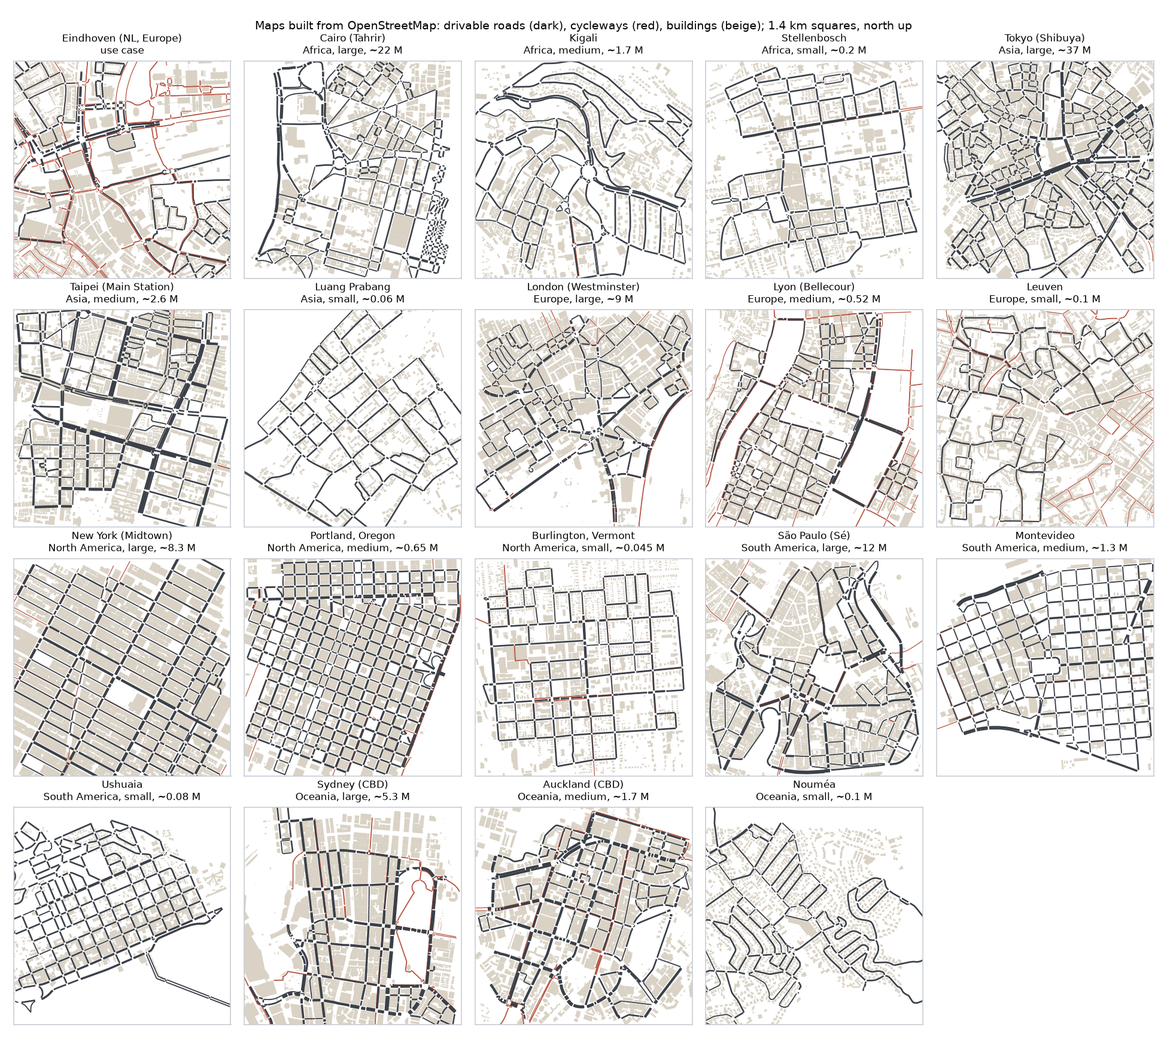
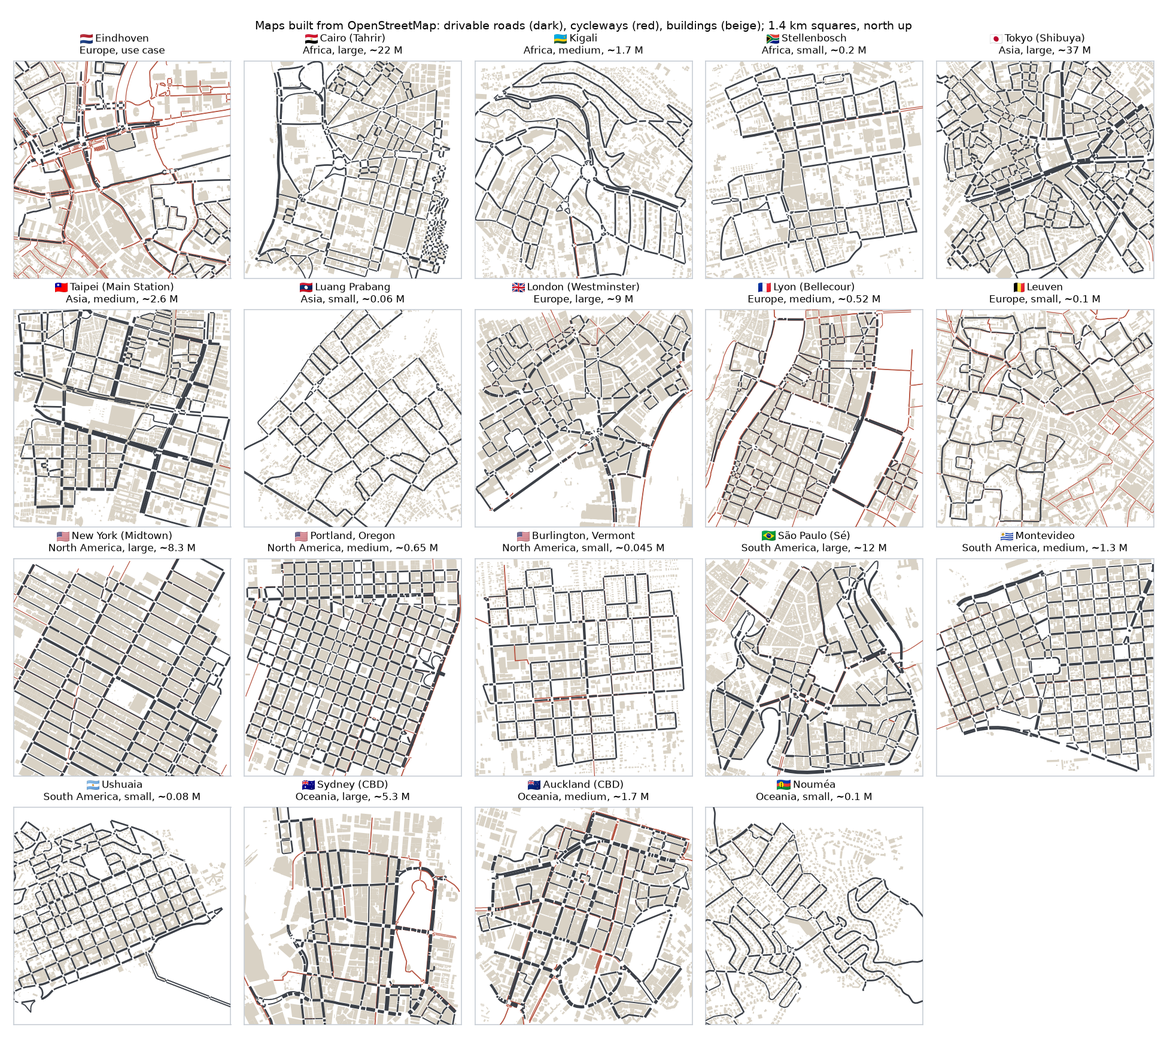
Flags next to city names: the cities figure, map maker tests, scenery, twins and video titles
tools/plot_maps.py draws each country's flag (Noto Color Emoji) left of its map's title.
The map maker page's result title shows the flag too.

diff --git a/coupledcarla/data/mapmaker.html b/coupledcarla/data/mapmaker.html
@@ -376,7 +376,7 @@ function showResult(sum, name) {
   if (!sum) return;
   S.shown = name;
   show("result");
-  $("resTitle").textContent = sum.label + (sum.country && sum.country !== "unknown" ? ", " + sum.country : "");
+  $("resTitle").textContent = (sum.country_code ? flag(sum.country_code) + " " : "") + sum.label + (sum.country && sum.country !== "unknown" ? ", " + sum.country : "");
   $("resImg").src = `/maps/${encodeURIComponent(name)}/preview.png?t=${Date.now()}`;
   const h = sum.building_height_m;
   const rows = [

diff --git a/tools/plot_maps.py b/tools/plot_maps.py
@@ -1,6 +1,10 @@
-"""Figure of the built maps: roads, cycleways and OSM buildings per city, in a grid.
+"""Figure of the built maps: roads, cycleways and OSM buildings per city, in a grid, each title with its
+country's flag.
 
     python tools/plot_maps.py docs/img/cities.png
+
+Flags are drawn from the Noto Color Emoji font (OFL; its flag images are public domain); without that font the
+titles stay as they are.
 """
 import sys
 from pathlib import Path
@@ -8,31 +12,84 @@ from pathlib import Path
 import matplotlib
 matplotlib.use("Agg")
 import matplotlib.pyplot as plt  # noqa: E402
+import numpy as np  # noqa: E402
 import yaml  # noqa: E402
+from matplotlib.text import Text  # noqa: E402
 
 ROOT = Path(__file__).resolve().parent.parent
 sys.path.insert(0, str(ROOT))
+from coupledcarla.cities import ISO2, flag  # noqa: E402
 from coupledcarla.preview import draw  # noqa: E402  (shared with the map maker's preview pictures)
+
+EMOJI_FONTS = ["/usr/share/fonts/truetype/noto/NotoColorEmoji.ttf",
+               "/usr/share/fonts/noto/NotoColorEmoji.ttf",
+               "/usr/share/fonts/google-noto-emoji/NotoColorEmoji.ttf"]
+
+
+def flag_image(code, height_px):
+    """RGBA array of a country's flag, height_px high; None without a colour emoji font or a valid code."""
+    text = flag(code=code)
+    if not text:
+        return None
+    try:
+        from PIL import Image, ImageDraw, ImageFont
+    except ImportError:
+        return None
+    for path in EMOJI_FONTS:
+        if Path(path).exists():
+            break
+    else:
+        return None
+    font = ImageFont.truetype(path, 109)          # the bitmap size of Noto Color Emoji
+    im = Image.new("RGBA", (160, 160), (0, 0, 0, 0))
+    ImageDraw.Draw(im).text((0, 0), text, font=font, embedded_color=True)
+    im = im.crop(im.getbbox())
+    width = max(1, round(im.width * height_px / im.height))
+    return np.asarray(im.resize((width, int(height_px)), Image.LANCZOS))
+
+
+def add_title_flags(fig, axes_codes, gap_px=4):
+    """Put each axes' country flag left of the first line of its title (figure pixels, after layout)."""
+    renderer = fig.canvas.get_renderer()
+    for ax, code in axes_codes:
+        title = ax.title
+        lines = title.get_text().split("\n")
+        if not code or not lines[0]:
+            continue
+        box = title.get_window_extent(renderer)
+        probe = Text(text=lines[0], fontproperties=title.get_fontproperties(), figure=fig)
+        first = probe.get_window_extent(renderer)
+        line_h = box.height / len(lines)
+        img = flag_image(code, round(line_h * 0.8))
+        if img is None:
+            return
+        cx = (box.x0 + box.x1) / 2
+        x = cx - first.width / 2 - gap_px - img.shape[1]
+        y = box.y1 - line_h + (line_h - img.shape[0]) / 2
+        fig.figimage(img, xo=round(x), yo=round(y), origin="upper", zorder=5)
 
 
 def main(out):
     cat = yaml.safe_load((ROOT / "experiments" / "cities.yaml").read_text())
-    entries = [("eindhoven_centre", "Eindhoven (NL, Europe)\nuse case")]
+    entries = [("eindhoven_centre", "Eindhoven\nEurope, use case", "NL")]
     for c in cat["cities"]:
-        entries.append((c["slug"], f"{c['name']}\n{c['continent']}, {c['size']}, ~{c['population'] / 1e6:.2g} M"))
-    entries = [(s, t) for s, t in entries if (ROOT / "maps" / s / "geo.net.xml").exists()]
+        entries.append((c["slug"], f"{c['name']}\n{c['continent']}, {c['size']}, ~{c['population'] / 1e6:.2g} M",
+                        ISO2.get(c.get("country", ""))))
+    entries = [e for e in entries if (ROOT / "maps" / e[0] / "geo.net.xml").exists()]
     cols = 5
     rows = (len(entries) + cols - 1) // cols
     fig, axes = plt.subplots(rows, cols, figsize=(cols * 2.6, rows * 2.9), dpi=150)
     for ax in axes.flat[len(entries):]:
         ax.axis("off")
-    for ax, (slug, title) in zip(axes.flat, entries):
+    for ax, (slug, title, _) in zip(axes.flat, entries):
         draw(ax, ROOT / "maps" / slug, title)
     fig.suptitle("Maps built from OpenStreetMap: drivable roads (dark), cycleways (red), buildings (beige); "
                  "1.4 km squares, north up", fontsize=9)
     fig.tight_layout()
+    fig.canvas.draw()
+    add_title_flags(fig, [(ax, code) for ax, (_, _, code) in zip(axes.flat, entries)])
     Path(out).parent.mkdir(parents=True, exist_ok=True)
-    fig.savefig(out)
+    fig.savefig(out, dpi=fig.dpi)
     print("wrote", out)
 
 

diff --git a/README.md b/README.md
@@ -151,16 +151,16 @@ answered 502 and 504 several times and the map maker moved on to the next).
 
 | Typed | Found | What it tests | Size | Build | Roads | Buildings | Trees | Bus lines (timetable) | Hills | Drive: real-time factor, collisions |
 |---|---|---|---|---|---|---|---|---|---|---|
-| `명동, 서울` | Myeong-dong, Seoul, South Korea | Korean script; big city (9.5 M), right-hand | medium | 4.5 min | 40.5 km | 2,527 | 58,728 (Namsan's forest) | 45 (0) | 131 m | 0.980, 0 |
-| `Connaught Place, New Delhi` | New Delhi, India | a left-hand country not yet covered; big city | medium | 3.1 min | 31.4 km | 1,227 | 236 | 40 (0) | 46 m | 0.993, 0 |
-| `Hallstatt` | Hallstatt, Austria | a village of 388 people between a lake and a mountain | small | 2.8 min | 0.8 km | 235 | 39 | none | 516 m | 0.990, 0 (stuck 5 times, put back) |
-| `Plaza Mayor, Salamanca` | Salamanca, Spain | a town | medium | 4.5 min | 26.1 km | 2,328 | 4,204 | 28 (15) | 56 m | 0.981, 0 |
-| (a click on the page) | Kinsale, Ireland | a left-hand small town, built through the web page | small | 3.4 min | 20.2 km | 1,274 | 1,781 | 3 (3) | 64 m | 0.995, 0 |
+| `명동, 서울` | 🇰🇷&nbsp;Myeong-dong, Seoul, South Korea | Korean script; big city (9.5 M), right-hand | medium | 4.5 min | 40.5 km | 2,527 | 58,728 (Namsan's forest) | 45 (0) | 131 m | 0.980, 0 |
+| `Connaught Place, New Delhi` | 🇮🇳&nbsp;New Delhi, India | a left-hand country not yet covered; big city | medium | 3.1 min | 31.4 km | 1,227 | 236 | 40 (0) | 46 m | 0.993, 0 |
+| `Hallstatt` | 🇦🇹&nbsp;Hallstatt, Austria | a village of 388 people between a lake and a mountain | small | 2.8 min | 0.8 km | 235 | 39 | none | 516 m | 0.990, 0 (stuck 5 times, put back) |
+| `Plaza Mayor, Salamanca` | 🇪🇸&nbsp;Salamanca, Spain | a town | medium | 4.5 min | 26.1 km | 2,328 | 4,204 | 28 (15) | 56 m | 0.981, 0 |
+| (a click on the page) | 🇮🇪&nbsp;Kinsale, Ireland | a left-hand small town, built through the web page | small | 3.4 min | 20.2 km | 1,274 | 1,781 | 3 (3) | 64 m | 0.995, 0 |
 
-| Myeong-dong, Seoul | Connaught Place, New Delhi |
+| 🇰🇷&nbsp;Myeong-dong, Seoul | 🇮🇳&nbsp;Connaught Place, New Delhi |
 |---|---|
 | ![Preview of Myeong-dong, Seoul](docs/img/mapmaker_seoul.png) | ![Preview of Connaught Place, New Delhi](docs/img/mapmaker_delhi.png) |
-| **Plaza Mayor, Salamanca** | **Hallstatt** |
+| 🇪🇸&nbsp;**Plaza Mayor, Salamanca** | 🇦🇹&nbsp;**Hallstatt** |
 | ![Preview of Plaza Mayor, Salamanca](docs/img/mapmaker_salamanca.png) | ![Preview of Hallstatt](docs/img/mapmaker_hallstatt.png) |
 
 <img src="docs/img/mapmaker_drives.jpg" width="100%" alt="Chase-camera frames of the test drives: Seoul, New Delhi (left-hand), Hallstatt, Salamanca">
@@ -222,15 +222,15 @@ participant hears (`--record-audio`), outside cameras what can be heard where th
 
 <table>
 <tr>
-<td width="50%" valign="top"><a href="https://github.com/bazilinskyy/coupled-carla/releases/download/demo-videos/twin_eindhoven.mp4"><img src="docs/img/videos/twin_eindhoven.jpg" alt="The Eindhoven digital twin"></a><br><b>The Eindhoven digital twin</b><br><sub>Eindhoven centre, CARLA 1.0 twin · driver (autopilot), chase camera · 20 s, 4.8 MB<br>3DBAG buildings with real roofs and facade styles, aerial-photo ground, CARLA road markings, trees and street furniture from open data</sub></td>
-<td width="50%" valign="top"><a href="https://github.com/bazilinskyy/coupled-carla/releases/download/demo-videos/twin_drones.mp4"><img src="docs/img/videos/twin_drones.jpg" alt="Drones over the Eindhoven twin"></a><br><b>Drones over the Eindhoven twin</b><br><sub>Eindhoven centre, CARLA 1.0 twin · drone pilot (FPV) · 20 s, 3.1 MB<br>the pilot climbs over the twin's real roof shapes; delivery and swarm drones fly in the cruise band</sub></td>
+<td width="50%" valign="top"><a href="https://github.com/bazilinskyy/coupled-carla/releases/download/demo-videos/twin_eindhoven.mp4"><img src="docs/img/videos/twin_eindhoven.jpg" alt="The Eindhoven digital twin"></a><br>🇳🇱&nbsp;<b>The Eindhoven digital twin</b><br><sub>Eindhoven centre, CARLA 1.0 twin · driver (autopilot), chase camera · 20 s, 4.8 MB<br>3DBAG buildings with real roofs and facade styles, aerial-photo ground, CARLA road markings, trees and street furniture from open data</sub></td>
+<td width="50%" valign="top"><a href="https://github.com/bazilinskyy/coupled-carla/releases/download/demo-videos/twin_drones.mp4"><img src="docs/img/videos/twin_drones.jpg" alt="Drones over the Eindhoven twin"></a><br>🇳🇱&nbsp;<b>Drones over the Eindhoven twin</b><br><sub>Eindhoven centre, CARLA 1.0 twin · drone pilot (FPV) · 20 s, 3.1 MB<br>the pilot climbs over the twin's real roof shapes; delivery and swarm drones fly in the cruise band</sub></td>
 </tr>
 <tr>
-<td width="50%" valign="top"><a href="https://github.com/bazilinskyy/coupled-carla/releases/download/demo-videos/twin_salamanca.mp4"><img src="docs/img/videos/twin_salamanca.jpg" alt="Plaza Mayor, Salamanca"></a><br><b>Plaza Mayor, Salamanca</b><br><sub>Salamanca, Spain, CARLA 1.0 twin · driver (autopilot), chase camera · 20 s, 4.0 MB<br>a twin of any place from Spain's open data: Catastro buildings with their floors, PNOA aerial photo, MDT05 terrain</sub></td>
-<td width="50%" valign="top"><a href="https://github.com/bazilinskyy/coupled-carla/releases/download/demo-videos/twin_shibuya.mp4"><img src="docs/img/videos/twin_shibuya.jpg" alt="Shibuya crossing twin"></a><br><b>Shibuya crossing twin</b><br><sub>Tokyo, Japan, CARLA 1.0 twin (left-hand) · driver (autopilot), chase camera · 20 s, 3.2 MB<br>across the scramble crossing in a twin from Japan's open data: PLATEAU buildings with their photo textures, GSI photo and terrain</sub></td>
+<td width="50%" valign="top"><a href="https://github.com/bazilinskyy/coupled-carla/releases/download/demo-videos/twin_salamanca.mp4"><img src="docs/img/videos/twin_salamanca.jpg" alt="Plaza Mayor, Salamanca"></a><br>🇪🇸&nbsp;<b>Plaza Mayor, Salamanca</b><br><sub>Salamanca, Spain, CARLA 1.0 twin · driver (autopilot), chase camera · 20 s, 4.0 MB<br>a twin of any place from Spain's open data: Catastro buildings with their floors, PNOA aerial photo, MDT05 terrain</sub></td>
+<td width="50%" valign="top"><a href="https://github.com/bazilinskyy/coupled-carla/releases/download/demo-videos/twin_shibuya.mp4"><img src="docs/img/videos/twin_shibuya.jpg" alt="Shibuya crossing twin"></a><br>🇯🇵&nbsp;<b>Shibuya crossing twin</b><br><sub>Tokyo, Japan, CARLA 1.0 twin (left-hand) · driver (autopilot), chase camera · 20 s, 3.2 MB<br>across the scramble crossing in a twin from Japan's open data: PLATEAU buildings with their photo textures, GSI photo and terrain</sub></td>
 </tr>
 <tr>
-<td width="50%" valign="top"><a href="https://github.com/bazilinskyy/coupled-carla/releases/download/demo-videos/eindhoven_rush_hour.mp4"><img src="docs/img/videos/eindhoven_rush_hour.jpg" alt="Rush hour in Eindhoven"></a><br><b>Rush hour in Eindhoven</b><br><sub>Eindhoven centre, Netherlands · driver (autopilot), chase camera · 20 s, 30.3 MB<br>dense mixed traffic around the station, buses of the real lines, cyclists sharing the road</sub></td>
+<td width="50%" valign="top"><a href="https://github.com/bazilinskyy/coupled-carla/releases/download/demo-videos/eindhoven_rush_hour.mp4"><img src="docs/img/videos/eindhoven_rush_hour.jpg" alt="Rush hour in Eindhoven"></a><br>🇳🇱&nbsp;<b>Rush hour in Eindhoven</b><br><sub>Eindhoven centre, Netherlands · driver (autopilot), chase camera · 20 s, 30.3 MB<br>dense mixed traffic around the station, buses of the real lines, cyclists sharing the road</sub></td>
 <td width="50%" valign="top"><a href="https://github.com/bazilinskyy/coupled-carla/releases/download/demo-videos/eindhoven_pedestrian_ehmi.mp4"><img src="docs/img/videos/eindhoven_pedestrian_ehmi.jpg" alt="Crossing in front of an automated car"></a><br><b>Crossing in front of an automated car</b><br><sub>Eindhoven, east of the station · pedestrian · 9.5 s, 15.0 MB<br>the AV slows, shows I'M STOPPING, then GO AHEAD; its eyes follow the pedestrian</sub></td>
 </tr>
 <tr>
@@ -238,19 +238,19 @@ participant hears (`--record-audio`), outside cameras what can be heard where th
 <td width="50%" valign="top"><a href="https://github.com/bazilinskyy/coupled-carla/releases/download/demo-videos/robotaxi_passenger.mp4"><img src="docs/img/videos/robotaxi_passenger.jpg" alt="Riding in a robotaxi"></a><br><b>Riding in a robotaxi</b><br><sub>Eindhoven, east of the station · AV passenger (bot station) · 18 s, 47.3 MB<br>the centre screen's message and the eHMI as the AV stops and lets the pedestrian cross</sub></td>
 </tr>
 <tr>
-<td width="50%" valign="top"><a href="https://github.com/bazilinskyy/coupled-carla/releases/download/demo-videos/eindhoven_cyclist.mp4"><img src="docs/img/videos/eindhoven_cyclist.jpg" alt="Riding with Dutch cyclists"></a><br><b>Riding with Dutch cyclists</b><br><sub>Eindhoven, Vestdijk cycle path · chase camera on a SUMO cyclist · 20 s, 48.1 MB<br>cyclists on the cycle track and the street beside it, overtaking each other</sub></td>
-<td width="50%" valign="top"><a href="https://github.com/bazilinskyy/coupled-carla/releases/download/demo-videos/tokyo_shibuya.mp4"><img src="docs/img/videos/tokyo_shibuya.jpg" alt="Shibuya crossing, left-hand traffic"></a><br><b>Shibuya crossing, left-hand traffic</b><br><sub>Tokyo (Shibuya), Japan · orbiting camera above the crossing · 20 s, 19.3 MB<br>traffic keeps left, Toei buses, pedestrians crossing at the junction (80 walkers calibrated for Tokyo)</sub></td>
+<td width="50%" valign="top"><a href="https://github.com/bazilinskyy/coupled-carla/releases/download/demo-videos/eindhoven_cyclist.mp4"><img src="docs/img/videos/eindhoven_cyclist.jpg" alt="Riding with Dutch cyclists"></a><br>🇳🇱&nbsp;<b>Riding with Dutch cyclists</b><br><sub>Eindhoven, Vestdijk cycle path · chase camera on a SUMO cyclist · 20 s, 48.1 MB<br>cyclists on the cycle track and the street beside it, overtaking each other</sub></td>
+<td width="50%" valign="top"><a href="https://github.com/bazilinskyy/coupled-carla/releases/download/demo-videos/tokyo_shibuya.mp4"><img src="docs/img/videos/tokyo_shibuya.jpg" alt="Shibuya crossing, left-hand traffic"></a><br>🇯🇵&nbsp;<b>Shibuya crossing, left-hand traffic</b><br><sub>Tokyo (Shibuya), Japan · orbiting camera above the crossing · 20 s, 19.3 MB<br>traffic keeps left, Toei buses, pedestrians crossing at the junction (80 walkers calibrated for Tokyo)</sub></td>
 </tr>
 <tr>
-<td width="50%" valign="top"><a href="https://github.com/bazilinskyy/coupled-carla/releases/download/demo-videos/new_york_avenue.mp4"><img src="docs/img/videos/new_york_avenue.jpg" alt="Up Sixth Avenue"></a><br><b>Up Sixth Avenue</b><br><sub>New York (Midtown), USA · automated driver, chase camera · 20 s, 25.7 MB<br>Midtown's towers at their real heights (NYC Open Data), the avenue's five lanes</sub></td>
-<td width="50%" valign="top"><a href="https://github.com/bazilinskyy/coupled-carla/releases/download/demo-videos/kigali_hills.mp4"><img src="docs/img/videos/kigali_hills.jpg" alt="Kigali's hills"></a><br><b>Kigali's hills</b><br><sub>Kigali, Rwanda · crane camera over the road · 20 s, 21.6 MB<br>the roads climb and fall with the real terrain (AWS Terrain Tiles); Overture buildings on the slopes</sub></td>
+<td width="50%" valign="top"><a href="https://github.com/bazilinskyy/coupled-carla/releases/download/demo-videos/new_york_avenue.mp4"><img src="docs/img/videos/new_york_avenue.jpg" alt="Up Sixth Avenue"></a><br>🇺🇸&nbsp;<b>Up Sixth Avenue</b><br><sub>New York (Midtown), USA · automated driver, chase camera · 20 s, 25.7 MB<br>Midtown's towers at their real heights (NYC Open Data), the avenue's five lanes</sub></td>
+<td width="50%" valign="top"><a href="https://github.com/bazilinskyy/coupled-carla/releases/download/demo-videos/kigali_hills.mp4"><img src="docs/img/videos/kigali_hills.jpg" alt="Kigali's hills"></a><br>🇷🇼&nbsp;<b>Kigali's hills</b><br><sub>Kigali, Rwanda · crane camera over the road · 20 s, 21.6 MB<br>the roads climb and fall with the real terrain (AWS Terrain Tiles); Overture buildings on the slopes</sub></td>
 </tr>
 <tr>
-<td width="50%" valign="top"><a href="https://github.com/bazilinskyy/coupled-carla/releases/download/demo-videos/lyon_night_rain.mp4"><img src="docs/img/videos/lyon_night_rain.jpg" alt="Rainy night in Lyon"></a><br><b>Rainy night in Lyon</b><br><sub>Lyon (Bellecour), France · driver, chase camera · 20 s, 33.1 MB<br>night after sunset with rain, headlights and lit shop windows (0.9.16's street lamps give no light)</sub></td>
-<td width="50%" valign="top"><a href="https://github.com/bazilinskyy/coupled-carla/releases/download/demo-videos/eindhoven_drones.mp4"><img src="docs/img/videos/eindhoven_drones.jpg" alt="Drones over Eindhoven"></a><br><b>Drones over Eindhoven</b><br><sub>Eindhoven centre · drone pilot (FPV) · 20 s, 26.9 MB<br>the pilot's gimbal camera climbing out of a square over the roofs to the skyline (coupled-sim's flight model)</sub></td>
+<td width="50%" valign="top"><a href="https://github.com/bazilinskyy/coupled-carla/releases/download/demo-videos/lyon_night_rain.mp4"><img src="docs/img/videos/lyon_night_rain.jpg" alt="Rainy night in Lyon"></a><br>🇫🇷&nbsp;<b>Rainy night in Lyon</b><br><sub>Lyon (Bellecour), France · driver, chase camera · 20 s, 33.1 MB<br>night after sunset with rain, headlights and lit shop windows (0.9.16's street lamps give no light)</sub></td>
+<td width="50%" valign="top"><a href="https://github.com/bazilinskyy/coupled-carla/releases/download/demo-videos/eindhoven_drones.mp4"><img src="docs/img/videos/eindhoven_drones.jpg" alt="Drones over Eindhoven"></a><br>🇳🇱&nbsp;<b>Drones over Eindhoven</b><br><sub>Eindhoven centre · drone pilot (FPV) · 20 s, 26.9 MB<br>the pilot's gimbal camera climbing out of a square over the roofs to the skyline (coupled-sim's flight model)</sub></td>
 </tr>
 <tr>
-<td width="50%" valign="top"><a href="https://github.com/bazilinskyy/coupled-carla/releases/download/demo-videos/chernihiv_avenue.mp4"><img src="docs/img/videos/chernihiv_avenue.jpg" alt="Down prospekt Myru, Chernihiv"></a><br><b>Down prospekt Myru, Chernihiv</b><br><sub>Chernihiv, Ukraine (made with the map maker) · driver (autopilot), chase camera · 20 s, 22.0 MB<br>a map made by typing "Chernihiv" into the map maker; prospekt Myru towards the centre, a bus stopping, people boarding</sub></td>
+<td width="50%" valign="top"><a href="https://github.com/bazilinskyy/coupled-carla/releases/download/demo-videos/chernihiv_avenue.mp4"><img src="docs/img/videos/chernihiv_avenue.jpg" alt="Down prospekt Myru, Chernihiv"></a><br>🇺🇦&nbsp;<b>Down prospekt Myru, Chernihiv</b><br><sub>Chernihiv, Ukraine (made with the map maker) · driver (autopilot), chase camera · 20 s, 22.0 MB<br>a map made by typing "Chernihiv" into the map maker; prospekt Myru towards the centre, a bus stopping, people boarding</sub></td>
 <td width="50%" valign="top"></td>
 </tr>
 </table>
@@ -479,11 +479,11 @@ sun of a real place and time. Everything is fetched once at map build time and c
 | | |
 |---|---|
 | ![Eindhoven: station square from above, 3DBAG buildings, OSM trees, lamps and bus shelters](docs/img/scenery_eindhoven_centre_station.jpg) | ![Lyon: Bellecour and the Fourvière hill, BD TOPO heights and real terrain](docs/img/scenery_lyon_bellecour.jpg) |
-| Eindhoven centre, 13 November 14:30 with that hour's weather: 3DBAG heights, 1,827 OSM street trees, lamps, bus shelters | Lyon: Place Bellecour, the Saône and the Fourvière hill (135 m of relief), IGN BD TOPO heights |
+| 🇳🇱&nbsp;Eindhoven centre, 13 November 14:30 with that hour's weather: 3DBAG heights, 1,827 OSM street trees, lamps, bus shelters | 🇫🇷&nbsp;Lyon: Place Bellecour, the Saône and the Fourvière hill (135 m of relief), IGN BD TOPO heights |
 | ![Eindhoven at street level](docs/img/scenery_eindhoven_centre_street.jpg) | ![Kigali on its hills](docs/img/scenery_kigali_centre.jpg) |
-| Eindhoven at street level, sun where it stood at 14:30 | Kigali: 188 m of relief, Overture (ML) footprints, OSM tree rows |
+| 🇳🇱&nbsp;Eindhoven at street level, sun where it stood at 14:30 | 🇷🇼&nbsp;Kigali: 188 m of relief, Overture (ML) footprints, OSM tree rows |
 | ![Tokyo Shibuya](docs/img/scenery_tokyo_shibuya.jpg) | ![New York Midtown](docs/img/scenery_new_york_midtown_midtown.jpg) |
-| Tokyo Shibuya: left-hand traffic and Toei buses at the crossing, PLATEAU heights | New York Midtown with NYC Open Data roof heights |
+| 🇯🇵&nbsp;Tokyo Shibuya: left-hand traffic and Toei buses at the crossing, PLATEAU heights | 🇺🇸&nbsp;New York Midtown with NYC Open Data roof heights |
 
 | What | Source (free, no key) | Used for |
 |---|---|---|
@@ -572,10 +572,10 @@ Built from these sources (the test maps of central Eindhoven, Lyon, Kigali and N
 
 | Map | Buildings (heights from) | Trees (OSM street trees) | Lamps (OSM) | Furniture | Signs | Relief |
 |---|---|---|---|---|---|---|
-| Eindhoven centre | 3,654 (3DBAG lidar) | 4,091 (1,827) | 1,079 (101) | 480 | 24 | 11 m (AHN) |
-| Lyon (Bellecour) | 2,675 (IGN BD TOPO) | 5,548 (1,268) | 500 | 2,097 | 38 | 135 m |
-| Kigali | 3,027 (Overture, ML footprints) | 1,449 (401) | 1,247 (26) | 4 | 0 | 187 m |
-| New York (Midtown) | 1,406 (NYC Open Data) | 801 (719) | 1,153 (103) | 339 | 2 | 14 m |
+| 🇳🇱&nbsp;Eindhoven centre | 3,654 (3DBAG lidar) | 4,091 (1,827) | 1,079 (101) | 480 | 24 | 11 m (AHN) |
+| 🇫🇷&nbsp;Lyon (Bellecour) | 2,675 (IGN BD TOPO) | 5,548 (1,268) | 500 | 2,097 | 38 | 135 m |
+| 🇷🇼&nbsp;Kigali | 3,027 (Overture, ML footprints) | 1,449 (401) | 1,247 (26) | 4 | 0 | 187 m |
+| 🇺🇸&nbsp;New York (Midtown) | 1,406 (NYC Open Data) | 801 (719) | 1,153 (103) | 339 | 2 | 14 m |
 
 Where OSM maps few street lamps, lamps line the roads every 32 m (on by default, `guess_lamps`). The lamp
 meshes give no light at night on CARLA 0.9.16, which cannot add lights at run time ([night and rain](#night-and-rain)).
@@ -1460,8 +1460,8 @@ Tested on two places (2026-11-15, lin5080, 1 km and 0.9 km squares, baked headle
 
 | Twin | Data | Roads | Buildings | Textures | Python stages | Bake (peak RAM) | Content | 60 s trial (`--local`, headless) |
 |---|---|---|---|---|---|---|---|---|
-| `SalamancaPlaza` (Plaza Mayor, Salamanca) | IGN PNOA 25 cm photo, IGN MDT05 terrain, Catastro buildings | 568 | 1,221 (5,615 parts; 1,215 with their year: 252 sandstone, 830 render, ...) | 82 (50 MB) | 9 min | 5 min, 7.8 GB | 90 MB | RTF 1.16, 0 collisions, 33 SUMO vehicles, 371 spawn points |
-| `ShibuyaCrossing` (the scramble crossing, Tokyo) | GSI photo and 5 m DEM, PLATEAU LoD 2 with its photo textures, left-hand | 1,399 | 1,648 (54,501 photo-textured surfaces in 18 atlases) | 54 (72 MB) | 38 min (5 with the downloads cached) | 3 min, 7.5 GB | 117 MB | RTF 1.18, 0 collisions, 46 SUMO vehicles, 400 spawn points; the driver kept left for 34 s, then left the lanes on the stacked roads by the station |
+| 🇪🇸&nbsp;`SalamancaPlaza` (Plaza Mayor, Salamanca) | IGN PNOA 25 cm photo, IGN MDT05 terrain, Catastro buildings | 568 | 1,221 (5,615 parts; 1,215 with their year: 252 sandstone, 830 render, ...) | 82 (50 MB) | 9 min | 5 min, 7.8 GB | 90 MB | RTF 1.16, 0 collisions, 33 SUMO vehicles, 371 spawn points |
+| 🇯🇵&nbsp;`ShibuyaCrossing` (the scramble crossing, Tokyo) | GSI photo and 5 m DEM, PLATEAU LoD 2 with its photo textures, left-hand | 1,399 | 1,648 (54,501 photo-textured surfaces in 18 atlases) | 54 (72 MB) | 38 min (5 with the downloads cached) | 3 min, 7.5 GB | 117 MB | RTF 1.18, 0 collisions, 46 SUMO vehicles, 400 spawn points; the driver kept left for 34 s, then left the lanes on the stacked roads by the station |
 
 The levels load in a CARLA 1.0 server and drive with SUMO traffic; what they look like must still be checked on a
 rendering server (`-nullrhi` renders nothing): the PLATEAU photo facades (taken from oblique aerial photos: right in

diff --git a/docs/street_photos.md b/docs/street_photos.md
@@ -20,9 +20,9 @@ Coverage of the boxes used so far (2026-11-16; `realism_check.py sources <experi
 
 | Box | Panoramax | KartaView | Commons (with heading) | Mapillary photos (panoramas) | Mapillary map features |
 |---|---|---|---|---|---|
-| Eindhoven centre (`eindhoven_centre`, 1.6 x 1.6 km) | 1,727 (846 panoramas, 2024-25) | 85 | 218 | 64,219 (19,901), 2009-2026 | 28,121 |
-| TU/e campus (51.4453-51.4524 N, 5.4813-5.4991 E) | 791 (188 panoramas, 2022-26) | 6 | 1 | 11,738 (1,758) | 3,883 |
-| Chernihiv (`chernihiv`, 1.4 x 1.4 km) | 0 | 0 | 71 (22 dated in daylight) | 11,993 (4,868), 2018-2022 | 4,721 |
+| 🇳🇱&nbsp;Eindhoven centre (`eindhoven_centre`, 1.6 x 1.6 km) | 1,727 (846 panoramas, 2024-25) | 85 | 218 | 64,219 (19,901), 2009-2026 | 28,121 |
+| 🇳🇱&nbsp;TU/e campus (51.4453-51.4524 N, 5.4813-5.4991 E) | 791 (188 panoramas, 2022-26) | 6 | 1 | 11,738 (1,758) | 3,883 |
+| 🇺🇦&nbsp;Chernihiv (`chernihiv`, 1.4 x 1.4 km) | 0 | 0 | 71 (22 dated in daylight) | 11,993 (4,868), 2018-2022 | 4,721 |
 
 Requests are spaced per host (Mapillary tiles 0.2 s, graph 0.1 s, Panoramax 0.5 s) and retried with backoff on
 429 and 5xx. Mapillary's published limits are far above that (forum figures: 50,000 graph requests per minute,
